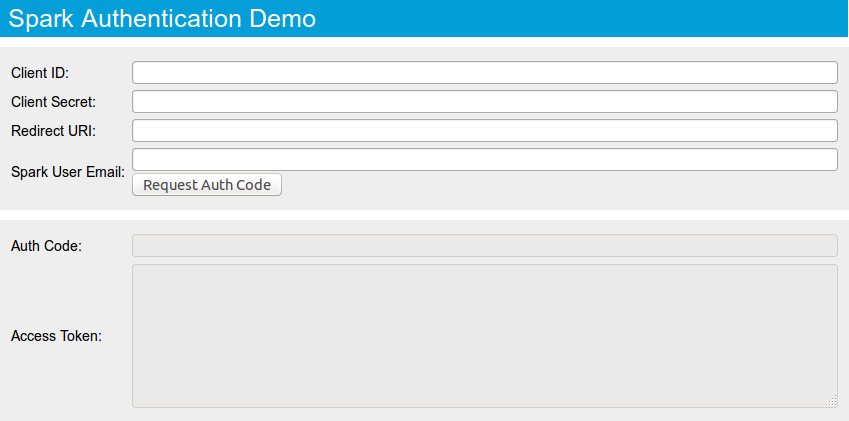
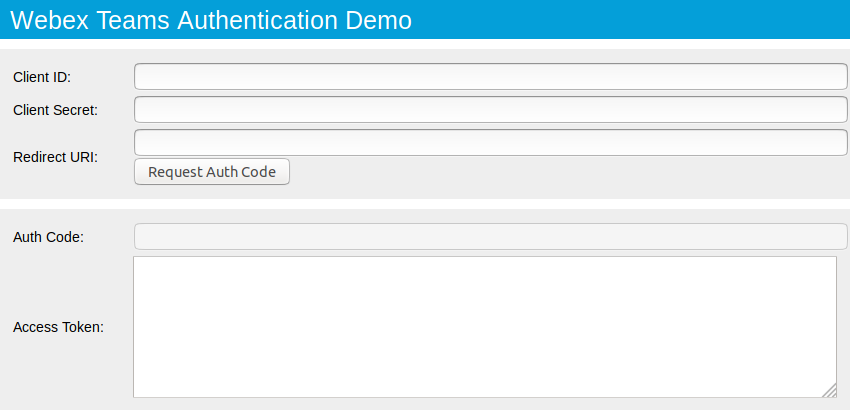
- Spark -> Webex Teams rename items

diff --git a/webex-teams-auth.html b/webex-teams-auth.html
@@ -1,7 +1,7 @@
 <!DOCTYPE html>
 <html>
 <script type="text/javascript">
-//Sample application demonstrating how to perform a Spark OAuth2 authentication and Spark API access token request
+//Sample application demonstrating how to perform a Webex Teams OAuth2 authentication and Webex Teams API access token request
 //Note: this page must be accessed from a web server, Step #3 below may fail if loaded from the file system
 
 // Helper function that generates a random alpha/numeric string
@@ -30,10 +30,10 @@ function codeClick() {
 	var appClientId=document.getElementById('clientId').value;
 	var appRedirectUri=document.getElementById('redirectUri').value;
 
-	//Build the request URL.  The base URL and next 4 items are typically always the same for Spark web apps
-	var requestUrl = 'https://api.ciscospark.com/v1/authorize?' + //Spark OAuth2 base URL
+	//Build the request URL.  The base URL and next 4 items are typically always the same for Webex Teams web apps
+	var requestUrl = 'https://api.ciscospark.com/v1/authorize?' + //Webex Teams OAuth2 base URL
 		'response_type=code&' + // Requesting the OAuth2 'Authentication Code' flow
-		'scope='+ encodeURIComponent('spark:rooms_read') + '&' + // Requested permission, i.e. Spark room info
+		'scope='+ encodeURIComponent('spark:rooms_read') + '&' + // Requested permission, i.e. Webex Teams room info
 		// The following items are provided by the developer in the source code/config or generated dynamically at run time
 		'state=' + encodeURIComponent(randomString(63)) + '&' +	// Random string for OAuth2 nonce replay protection
 		'client_id=' + encodeURIComponent(appClientId) + '&' + // The custom app Client ID
@@ -96,12 +96,12 @@ textarea {height: 140px;}
 </style>
 
 	<head>
-		<title>Spark Authentication Demo</title>
+		<title>Webex Teams Authentication Demo</title>
 	</head>
 	<body>
 	<div class="wrapper">
 	<div class="glasspane">
-		<h1>Spark Authentication Demo</h1>
+		<h1>Webex Teams Authentication Demo</h1>
 	</div>
 	<div class="table">
 		<table>

diff --git a/README.md b/README.md
@@ -1,27 +1,28 @@
-# A simple application demonstrating retrieving a Cisco Common Identity SSO token for use with Spark API
+# A simple application demonstrating retrieving a Cisco Common Identity OAuth token for use with Webex Teams API
 
-# Cisco Spark Web Application Authentication
+# Cisco Webex Teams web application authentication
 
-**Description**:  A simple application demonstrating how to retrieve a Cisco Spark OAuth2 token for use with the Cisco Spark API.
+**Description**:  A simple application demonstrating how to retrieve a Cisco Webex Teams OAuth2 token for use with the Cisco Webex Teams API.
 
   - **Technology stack**: HTML/Javascript
-  - **Status**:  First release v1.1 [CHANGELOG](CHANGELOG.md).
-  - **Live Demo**: This sample code accompanies the 'Spark - Application Registration and Authentication' learning lab at https://learninglabs.cisco.com
+  - **Status**:  v2.0 [CHANGELOG](CHANGELOG.md).
+  - **Live Demo**: This sample code accompanies the 'Webex Teams - Application Registration and Authentication' learning lab at https://learninglabs.cisco.com
 
-**Screenshot**: ![spark-auth.html](screenshot.png)
+**Screenshot**: ![webex-teams-auth.html](screenshot.png)
 
 ## Installation
 
-The HTML page must be served from a web browser (vs. the local file system)
+The HTML page must be served from a web server (vs. the local file system)
 
 ## Usage
 
-- Register a Spark application at https://developer.ciscospark.com/apps.html
-- Note, the application URL provided during registration should be the URL where this sample app page will be hosted
+- Register a Webex Teams 'integration' application at https://developer.webex.com/apps.html
+- Note, the application URL provided during registration should be the URL where this sample app page will be hosted (it can be a local URL)
 - The application Client ID and Client Secret generated during registration are required to run the app
 
 ## Getting help
 
+Webex developer support: https://developer.webex.com/support.html
 Cisco DevNet support is available here: https://developer.cisco.com/site/devnet/support/
 
 ## Getting involved

diff --git a/CHANGELOG.md b/CHANGELOG.md
@@ -1,6 +1,23 @@
 All notable changes to this project will be documented in this file.
 We follow the [Semantic Versioning 2.0.0](http://semver.org/) format.
 
+## 2.0.0 - 2018-9-10
+
+### Added
+
+### Deprecated
+
+### Fixed
+- Update 'Spark' to 'Webex Teams' where appropriate
+
+### Added
+- Initial release
+
+### Deprecated
+
+### Removed
+
+### Fixed
 
 ## 1.1.0 - 2015-12-07
 
